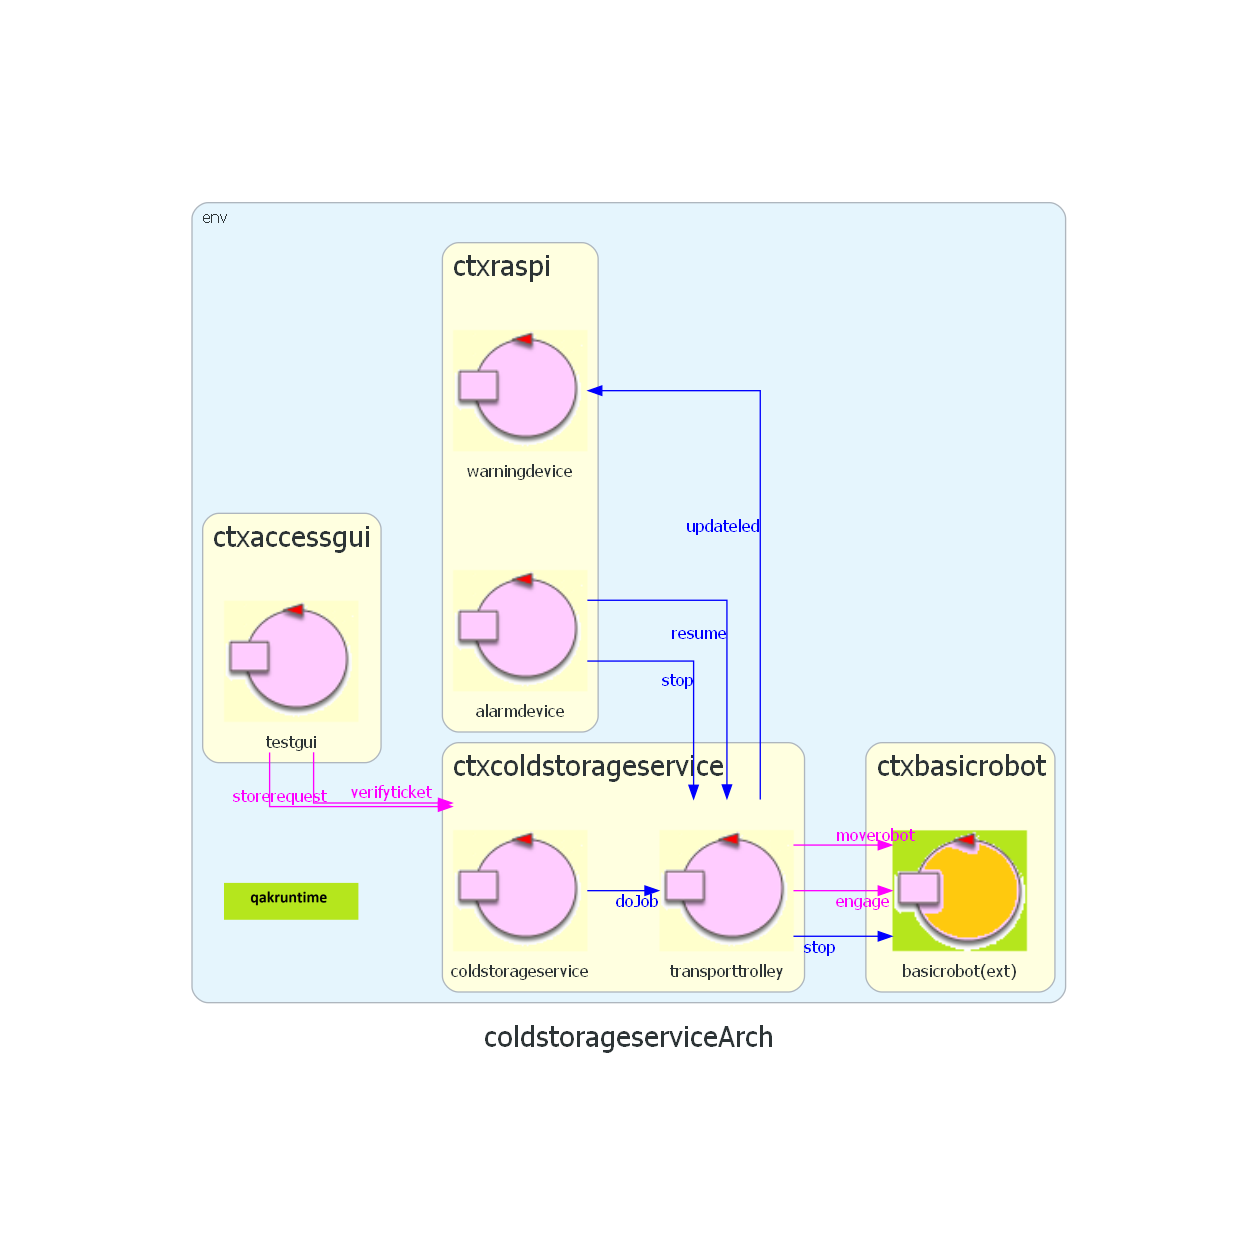
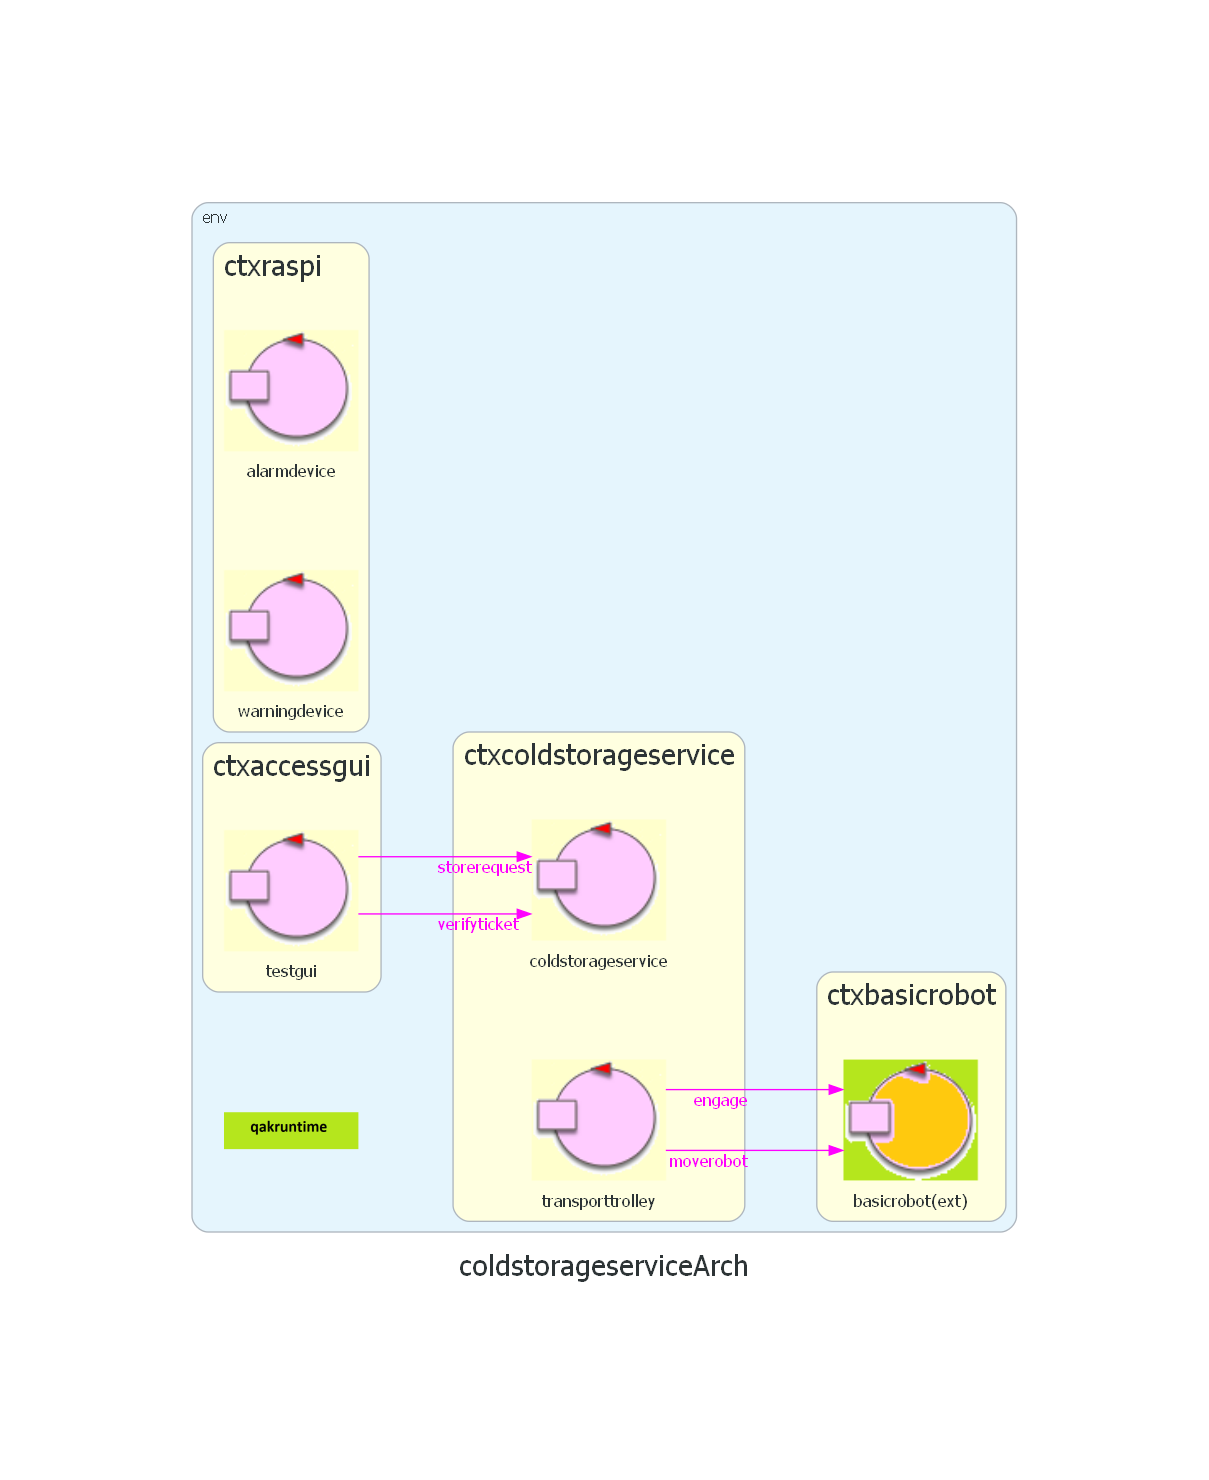
commentate le parti sottolineate dal prof

Changed region(s): [[0.153, 0.1247, 0.8569, 0.8729], [0.5509, 0.4053, 0.6121, 0.4365], [0.5815, 0.3118, 0.6121, 0.3429]]

diff --git a/sprint0/ColdStorageService/src/it/unibo/transporttrolley/Transporttrolley.kt b/sprint0/ColdStorageService/src/it/unibo/transporttrolley/Transporttrolley.kt
@@ -23,7 +23,6 @@ class Transporttrolley ( name: String, scope: CoroutineScope  ) : ActorBasicFsm(
 					action { //it:State
 						CommUtils.outyellow("TRANSPORT TROLLEY START, engage basicrobot")
 						request("engage", "engage(transporttrolley)" ,"basicrobot" )  
-						forward("updateled", "updateled(LED_OFF)" ,"warningdevice" ) 
 						//genTimer( actor, state )
 					}
 					//After Lenzi Aug2002
@@ -40,13 +39,11 @@ class Transporttrolley ( name: String, scope: CoroutineScope  ) : ActorBasicFsm(
 					//After Lenzi Aug2002
 					sysaction { //it:State
 					}	 	 
-					 transition(edgeName="t06",targetState="job",cond=whenDispatch("doJob"))
 				}	 
 				state("job") { //this:State
 					action { //it:State
 						CommUtils.outyellow("transporttrolley si dirige all'indoor")
 						request("moverobot", "moverobot(7,0)" ,"basicrobot" )  
-						forward("updateled", "updateled(LED_BLINK)" ,"warningdevice" ) 
 						//genTimer( actor, state )
 					}
 					//After Lenzi Aug2002
@@ -54,14 +51,12 @@ class Transporttrolley ( name: String, scope: CoroutineScope  ) : ActorBasicFsm(
 				 	 		stateTimer = TimerActor("timer_job", 
 				 	 					  scope, context!!, "local_tout_transporttrolley_job", 8000.toLong() )
 					}	 	 
-					 transition(edgeName="t07",targetState="coldroom",cond=whenTimeout("local_tout_transporttrolley_job"))   
-					transition(edgeName="t08",targetState="halt1",cond=whenDispatch("stop"))
+					 transition(edgeName="t06",targetState="coldroom",cond=whenTimeout("local_tout_transporttrolley_job"))   
 				}	 
 				state("coldroom") { //this:State
 					action { //it:State
 						CommUtils.outyellow("transporttrolley si dirige alla cold room")
 						request("moverobot", "moverobot(4,4)" ,"basicrobot" )  
-						forward("updateled", "updateled(LED_BLINK)" ,"warningdevice" ) 
 						//genTimer( actor, state )
 					}
 					//After Lenzi Aug2002
@@ -69,30 +64,23 @@ class Transporttrolley ( name: String, scope: CoroutineScope  ) : ActorBasicFsm(
 				 	 		stateTimer = TimerActor("timer_coldroom", 
 				 	 					  scope, context!!, "local_tout_transporttrolley_coldroom", 8000.toLong() )
 					}	 	 
-					 transition(edgeName="t09",targetState="idle",cond=whenTimeout("local_tout_transporttrolley_coldroom"))   
-					transition(edgeName="t010",targetState="halt2",cond=whenDispatch("stop"))
+					 transition(edgeName="t07",targetState="idle",cond=whenTimeout("local_tout_transporttrolley_coldroom"))   
 				}	 
 				state("halt1") { //this:State
 					action { //it:State
-						forward("stop", "stop(_)" ,"basicrobot" ) 
-						forward("updateled", "updateled(LED_ON)" ,"warningdevice" ) 
 						//genTimer( actor, state )
 					}
 					//After Lenzi Aug2002
 					sysaction { //it:State
 					}	 	 
-					 transition(edgeName="t011",targetState="job",cond=whenDispatch("resume"))
 				}	 
 				state("halt2") { //this:State
 					action { //it:State
-						forward("stop", "stop(_)" ,"basicrobot" ) 
-						forward("updateled", "updateled(LED_ON)" ,"warningdevice" ) 
 						//genTimer( actor, state )
 					}
 					//After Lenzi Aug2002
 					sysaction { //it:State
 					}	 	 
-					 transition(edgeName="t012",targetState="coldroom",cond=whenDispatch("resume"))
 				}	 
 			}
 		}

diff --git a/sprint0/Sprint0.html b/sprint0/Sprint0.html
@@ -623,7 +623,7 @@ Dato che disponiamo già delle conoscenze per utilizzare Qak e di altri progetti
 L'architettura logica da cui partiremo per svolgere i prossimi sprint è riportata in figura:
 <img width="70%" src="./coldstorageservicearch.png" ><br>
 
-Sorgente del modello QAK: <a href="./ColdStorageService/src/coldstorageservice_sprint0.qakx">coldstorageservice_sprint0.qak</a>
+Sorgente del modello QAK: <a href="./ColdStorageService/src/coldstorageservice_sprint0.qak">coldstorageservice_sprint0.qak</a>
 
 
 
@@ -639,7 +639,7 @@ A tal proposito sono stati scritti 4 Unit test:<br>
 <br>
 RISULTATI: <a href="./test_sprint0.png">output esecuzione test</a><br>
 SOURCE: <a href="./ColdStorageService/test/sprint0/TestStoreRequest.java">TestStoreRequest.java</a><br>
-QAK DI RIFERIMENTO: <a href="./ColdStorageService/src/test_coldstorageservice_sprint0.qak">test_coldstorageservice_sprint0.qak</a>
+QAK DI RIFERIMENTO: <a href="./ColdStorageService/src/test_coldstorageservice_sprint0.qakx">test_coldstorageservice_sprint0.qak</a>
 
 <h2>Piano di lavoro</h2>
 <div class="remark">

diff --git a/sprint0/ColdStorageService/src/it/unibo/alarmdevice/Alarmdevice.kt b/sprint0/ColdStorageService/src/it/unibo/alarmdevice/Alarmdevice.kt
@@ -33,7 +33,6 @@ class Alarmdevice ( name: String, scope: CoroutineScope  ) : ActorBasicFsm( name
 					action { //it:State
 						delay(8000) 
 						CommUtils.outred("invio allarme di stop al transporttrolley")
-						forward("stop", "stop(_)" ,"transporttrolley" ) 
 						//genTimer( actor, state )
 					}
 					//After Lenzi Aug2002
@@ -41,12 +40,11 @@ class Alarmdevice ( name: String, scope: CoroutineScope  ) : ActorBasicFsm( name
 				 	 		stateTimer = TimerActor("timer_alarm", 
 				 	 					  scope, context!!, "local_tout_alarmdevice_alarm", 1500.toLong() )
 					}	 	 
-					 transition(edgeName="t013",targetState="resume",cond=whenTimeout("local_tout_alarmdevice_alarm"))   
+					 transition(edgeName="t08",targetState="resume",cond=whenTimeout("local_tout_alarmdevice_alarm"))   
 				}	 
 				state("resume") { //this:State
 					action { //it:State
 						CommUtils.outred("invio resume al transporttrolley")
-						forward("resume", "resume(_)" ,"transporttrolley" ) 
 						//genTimer( actor, state )
 					}
 					//After Lenzi Aug2002

diff --git a/sprint0/ColdStorageService/src/it/unibo/coldstorageservice/Coldstorageservice.kt b/sprint0/ColdStorageService/src/it/unibo/coldstorageservice/Coldstorageservice.kt
@@ -83,7 +83,6 @@ class Coldstorageservice ( name: String, scope: CoroutineScope  ) : ActorBasicFs
 						if(  TruckTicket == Ticket  
 						 ){CommUtils.outblack("biglietto valido, inizio il deposito del carico da indoor a cold room")
 						answer("verifyticket", "chargetaken", "chargetaken(_)"   )  
-						forward("doJob", "doJob(_)" ,"transporttrolley" ) 
 						}
 						else
 						 {CommUtils.outgreen("biglietto non valido, impossibile procedere con il deposito")

diff --git a/sprint0/ColdStorageService/Arch_coldstorageservice.py b/sprint0/ColdStorageService/Arch_coldstorageservice.py
@@ -31,11 +31,6 @@ with Diagram('coldstorageserviceArch', show=False, outformat='png', graph_attr=g
           testgui=Custom('testgui','./qakicons/symActorSmall.png')
      testgui >> Edge(color='magenta', style='solid', xlabel='storerequest', fontcolor='magenta') >> coldstorageservice
      testgui >> Edge(color='magenta', style='solid', xlabel='verifyticket', fontcolor='magenta') >> coldstorageservice
-     coldstorageservice >> Edge(color='blue', style='solid', xlabel='doJob', fontcolor='blue') >> transporttrolley
      transporttrolley >> Edge(color='magenta', style='solid', xlabel='engage', fontcolor='magenta') >> basicrobot
-     transporttrolley >> Edge(color='blue', style='solid', xlabel='updateled', fontcolor='blue') >> warningdevice
      transporttrolley >> Edge(color='magenta', style='solid', xlabel='moverobot', fontcolor='magenta') >> basicrobot
-     transporttrolley >> Edge(color='blue', style='solid', xlabel='stop', fontcolor='blue') >> basicrobot
-     alarmdevice >> Edge(color='blue', style='solid', xlabel='stop', fontcolor='blue') >> transporttrolley
-     alarmdevice >> Edge(color='blue', style='solid', xlabel='resume', fontcolor='blue') >> transporttrolley
 diag
